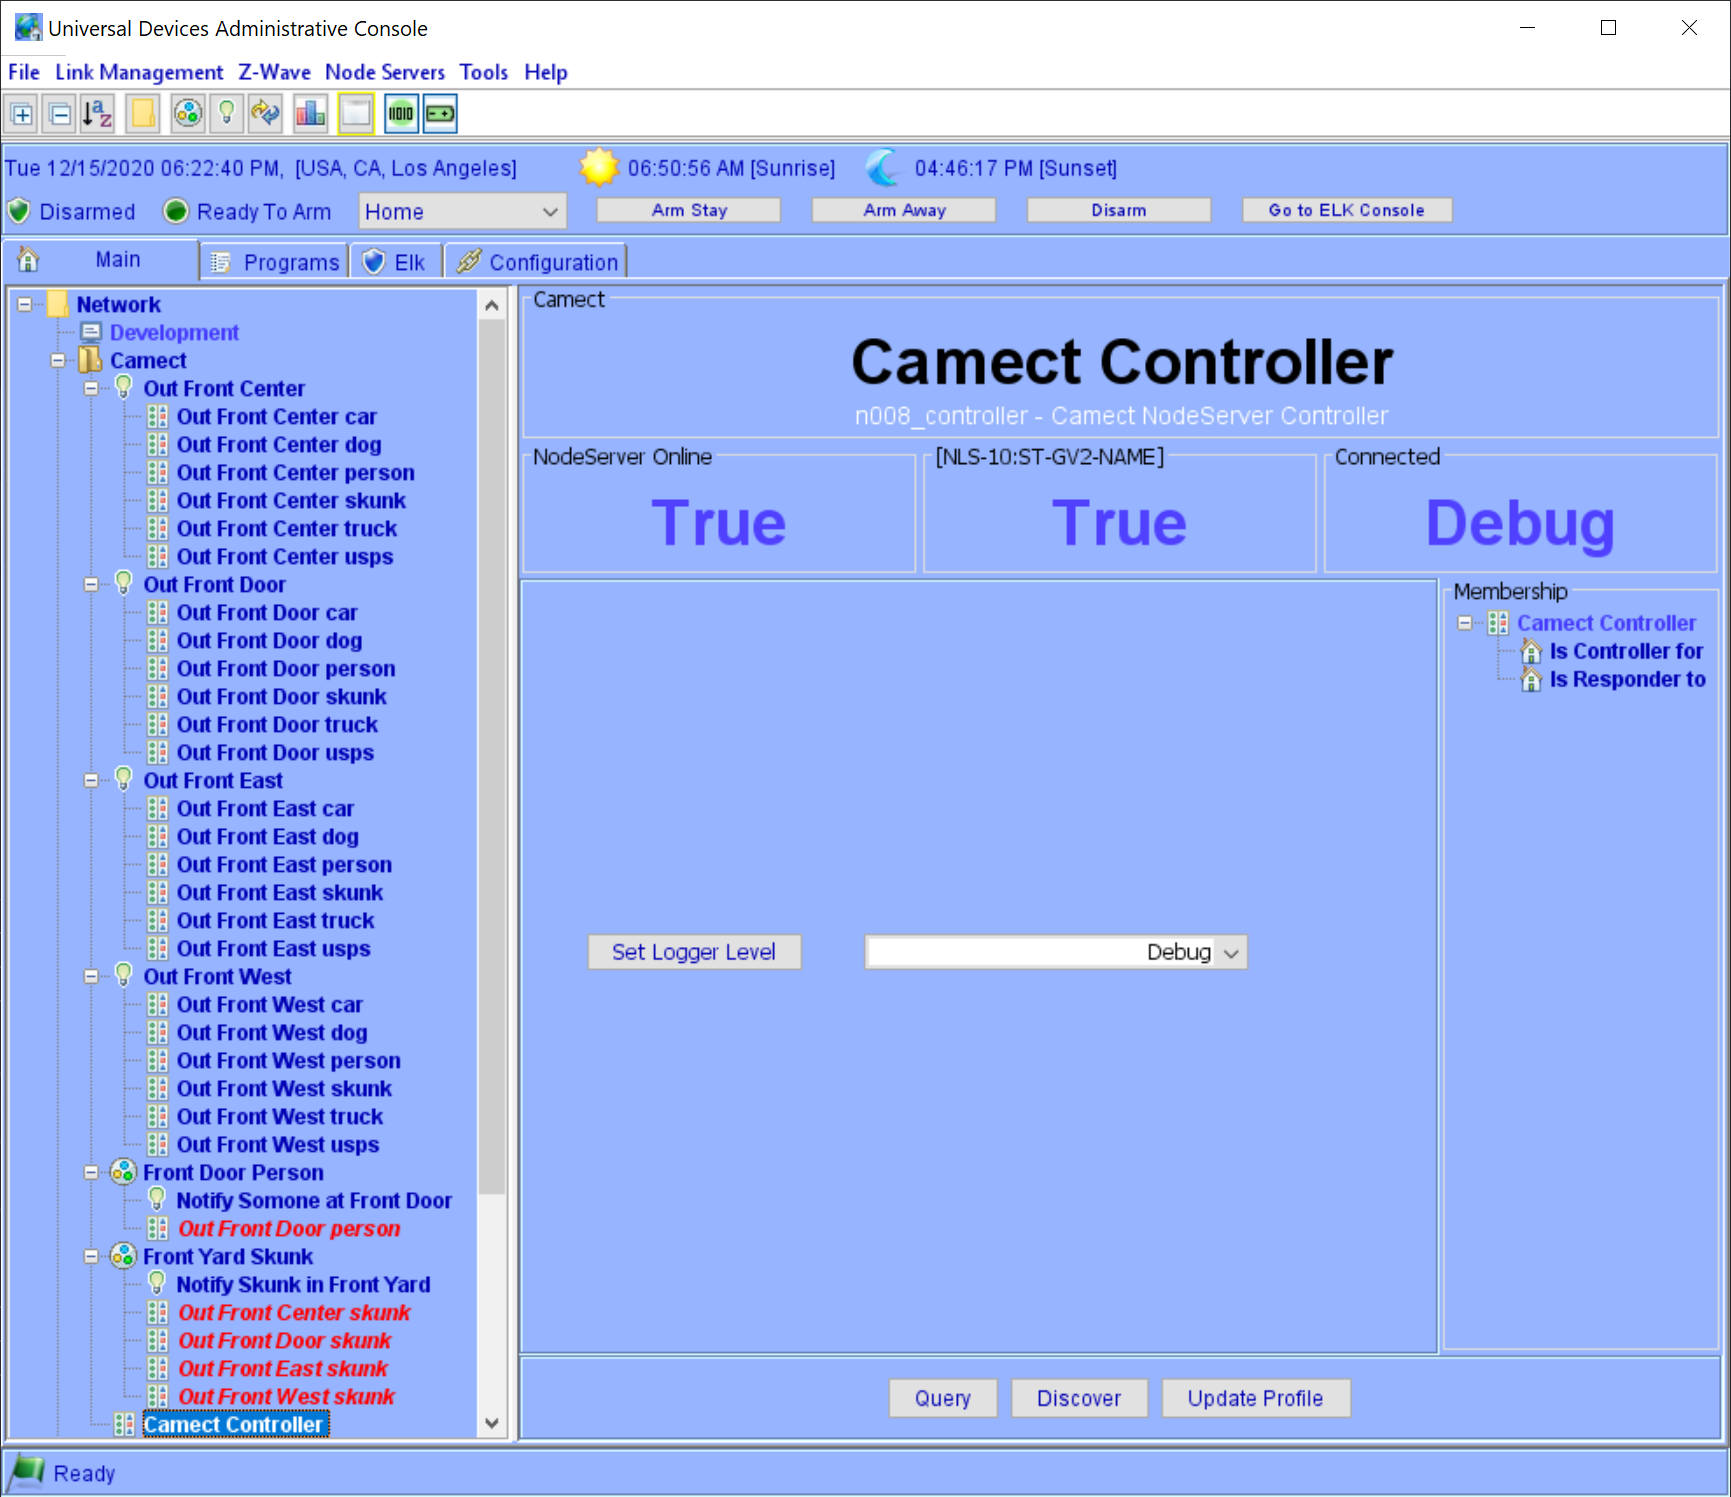
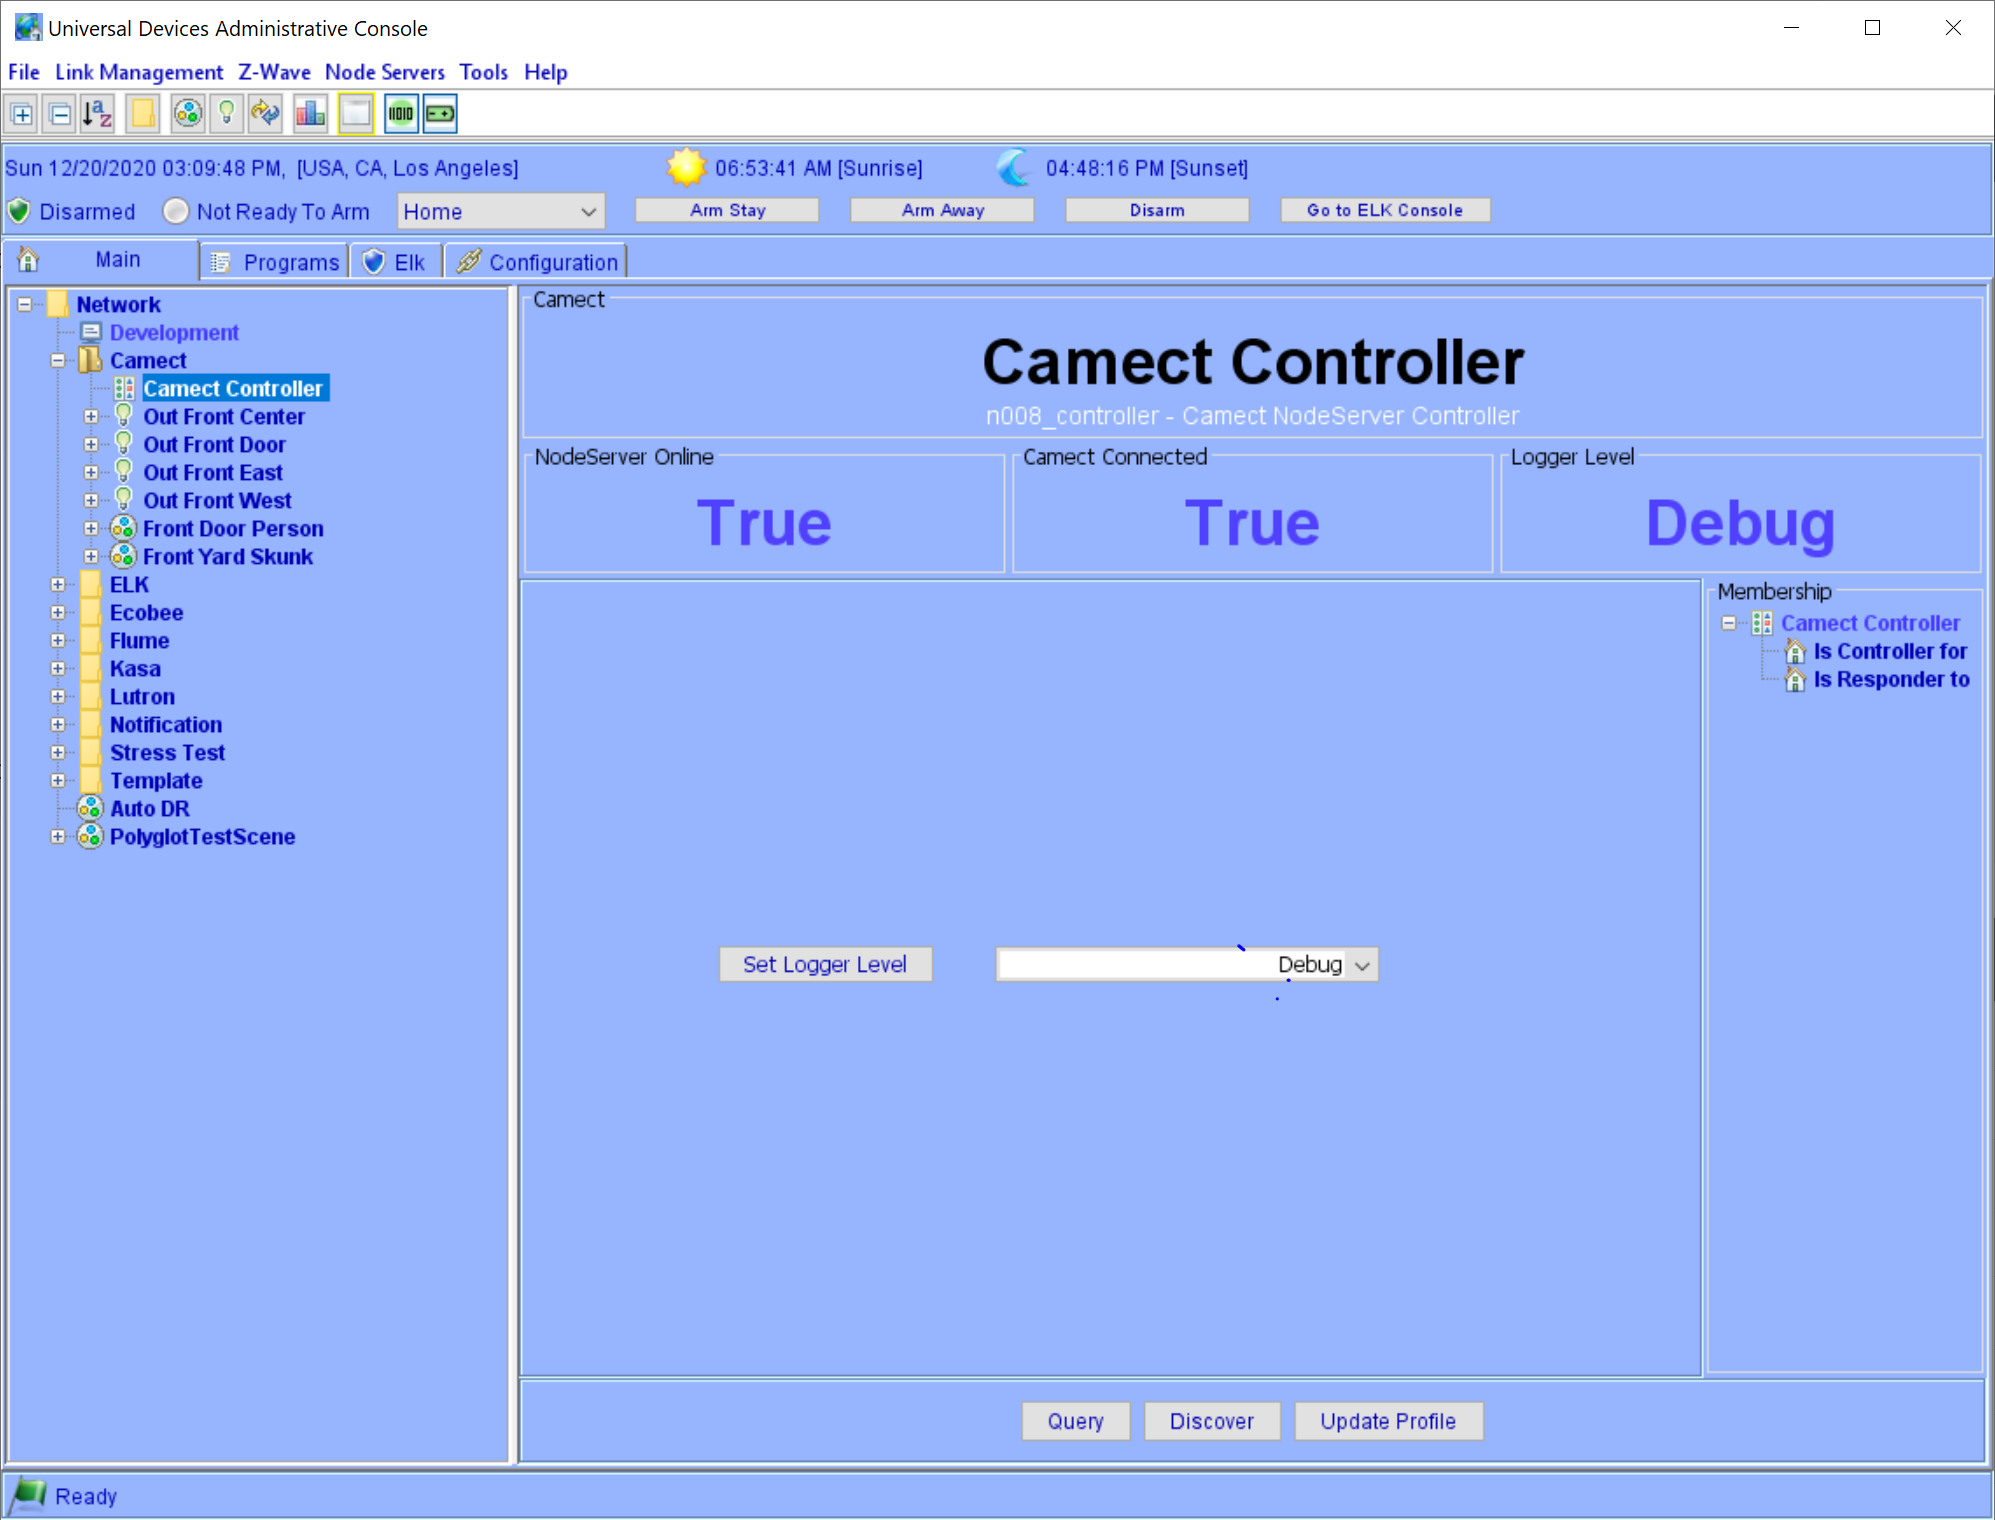
update docs

Changed region(s): [[0.0, 0.0, 1.0, 1.0], [0.4991, 0.6146, 0.7175, 0.676], [0.3432, 0.6146, 0.4679, 0.676]]

diff --git a/README.md b/README.md
@@ -18,14 +18,45 @@ This has been tested on an RPI running the latest Buster release and the Polisy.
 
 After configuring you should get a Node for each Camera, and under each Camera an ObjectDetected node for each type of object currently detected by Camect.
 
+### Controller
+
 The conroller looks like this:
 ![The Controller](pics/Controller.png)
-The 
-A node is created for each Camera... __Add more info here___
-![A Camera Node](pics/Camera.png)
+The Status shows:
+    - Nodeserver Online: Nodeserver connected to Polyglot
+    - Camect Connected: Status of connection to your Camect
+    - Logger Level: The current Logging level
+The Controls available:
+    - Logger Level
+        Usually set to Warning, unless you are debugging issues and want to see all information, but this will use up a lot of disk space. 
+        - Debug + Modules: All Debug including referenced modules
+        - Debug
+        - Info
+        - Warning
+        - Error
 
-The Camera nodes all have a child node for each known detected object type by Camect.  __Add more info here__
+### Camera
+
+A node is created for each Camera:
+![A Camera Node](pics/Camera.png)
+The Status shows:
+    - Enabled: If the Camera is enabled
+    - Alerting: If the Camera is sending Alerts
+    - Streaming: If the Camera is streaming
+The Controls Available:
+    - Enabled: [Coming soon](https://github.com/jimboca/udi-poly-Camect/issues/1)
+    - Alerting: [Coming soon](https://github.com/jimboca/udi-poly-Camect/issues/2)
+
+### Detected Object
+
+The Camera nodes all have a child node for each known detected object type by Camect.  For comments see [Allow user to control what time of objects they want to detect?](https://github.com/jimboca/udi-poly-Camect/issues/4)
+When the object is detected the ST is set to True and a DON is sent.  The status remains True until a different type of obejct is detected See: [Should timeout be set for detected object #3
+](https://github.com/jimboca/udi-poly-Camect/issues/3)
 ![A Detected Object](pics/DetectedObject.png)
+The Status Shows:
+    - Detected: True when object has been detected
+
+#### How to use Detected Objects
 
 You can create a program to know when a Skunk enters your front yard ![Skunk Program](pics/ProgramSkunk.png)
 
